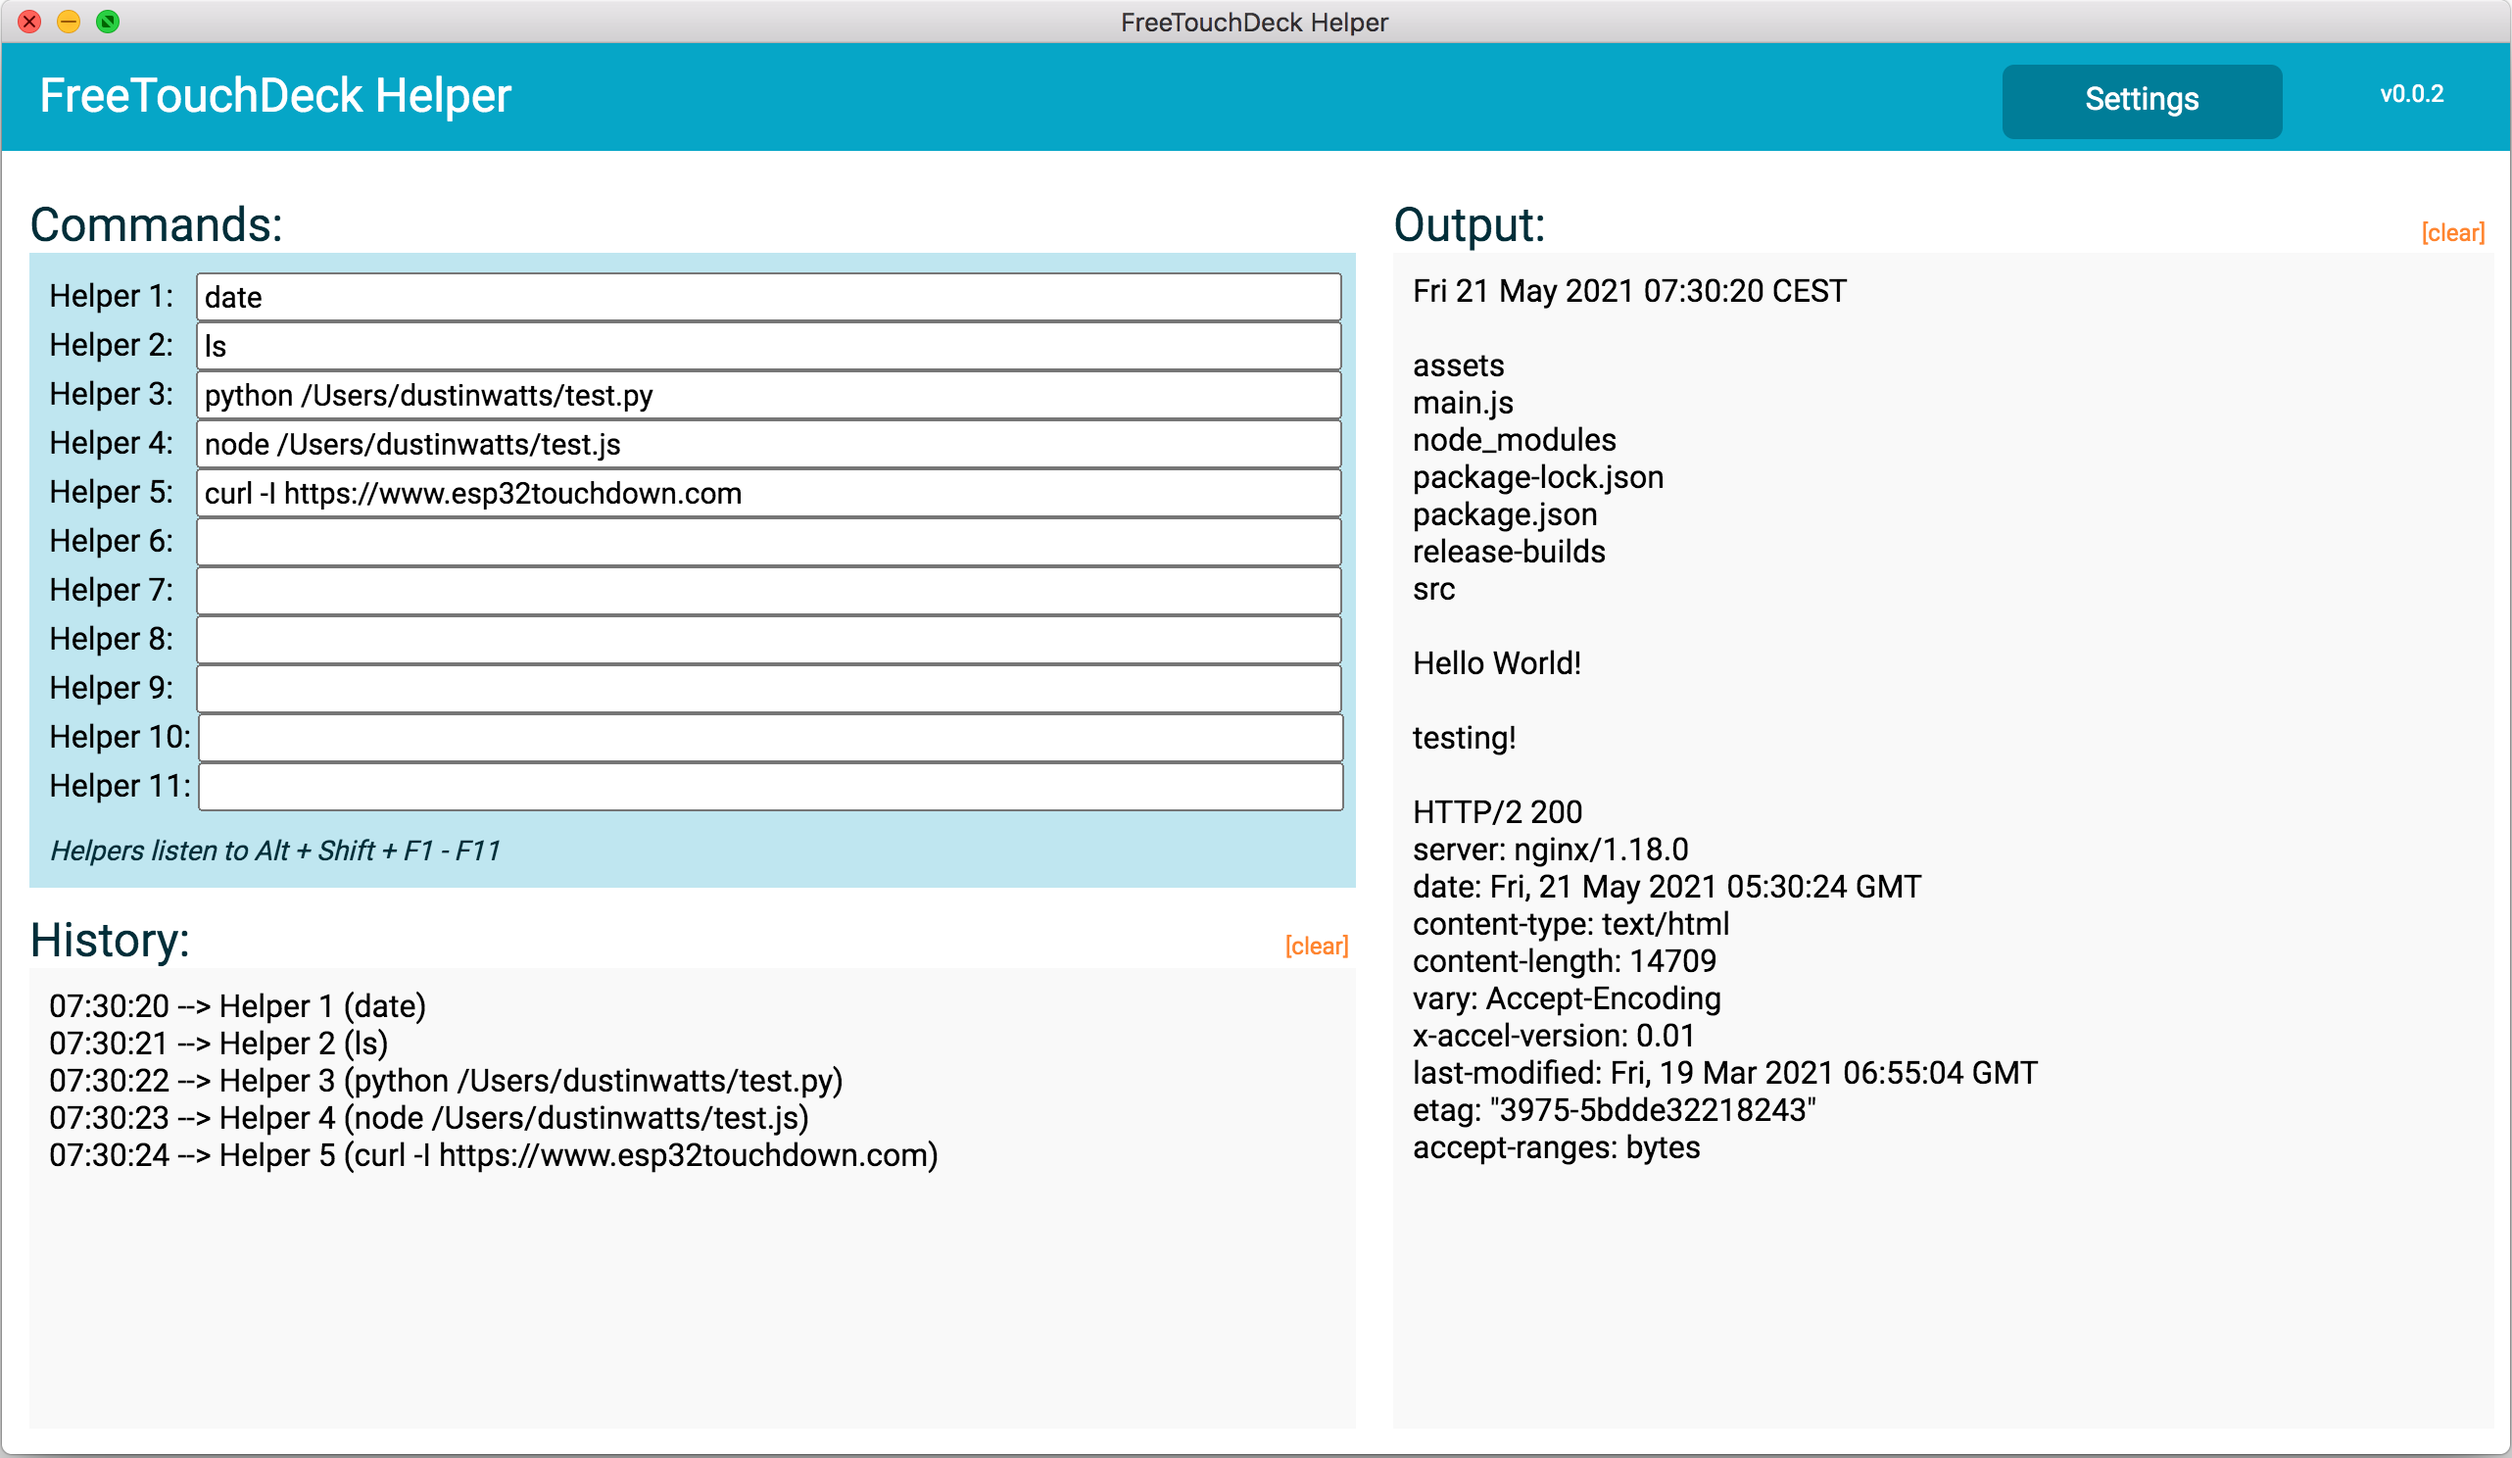
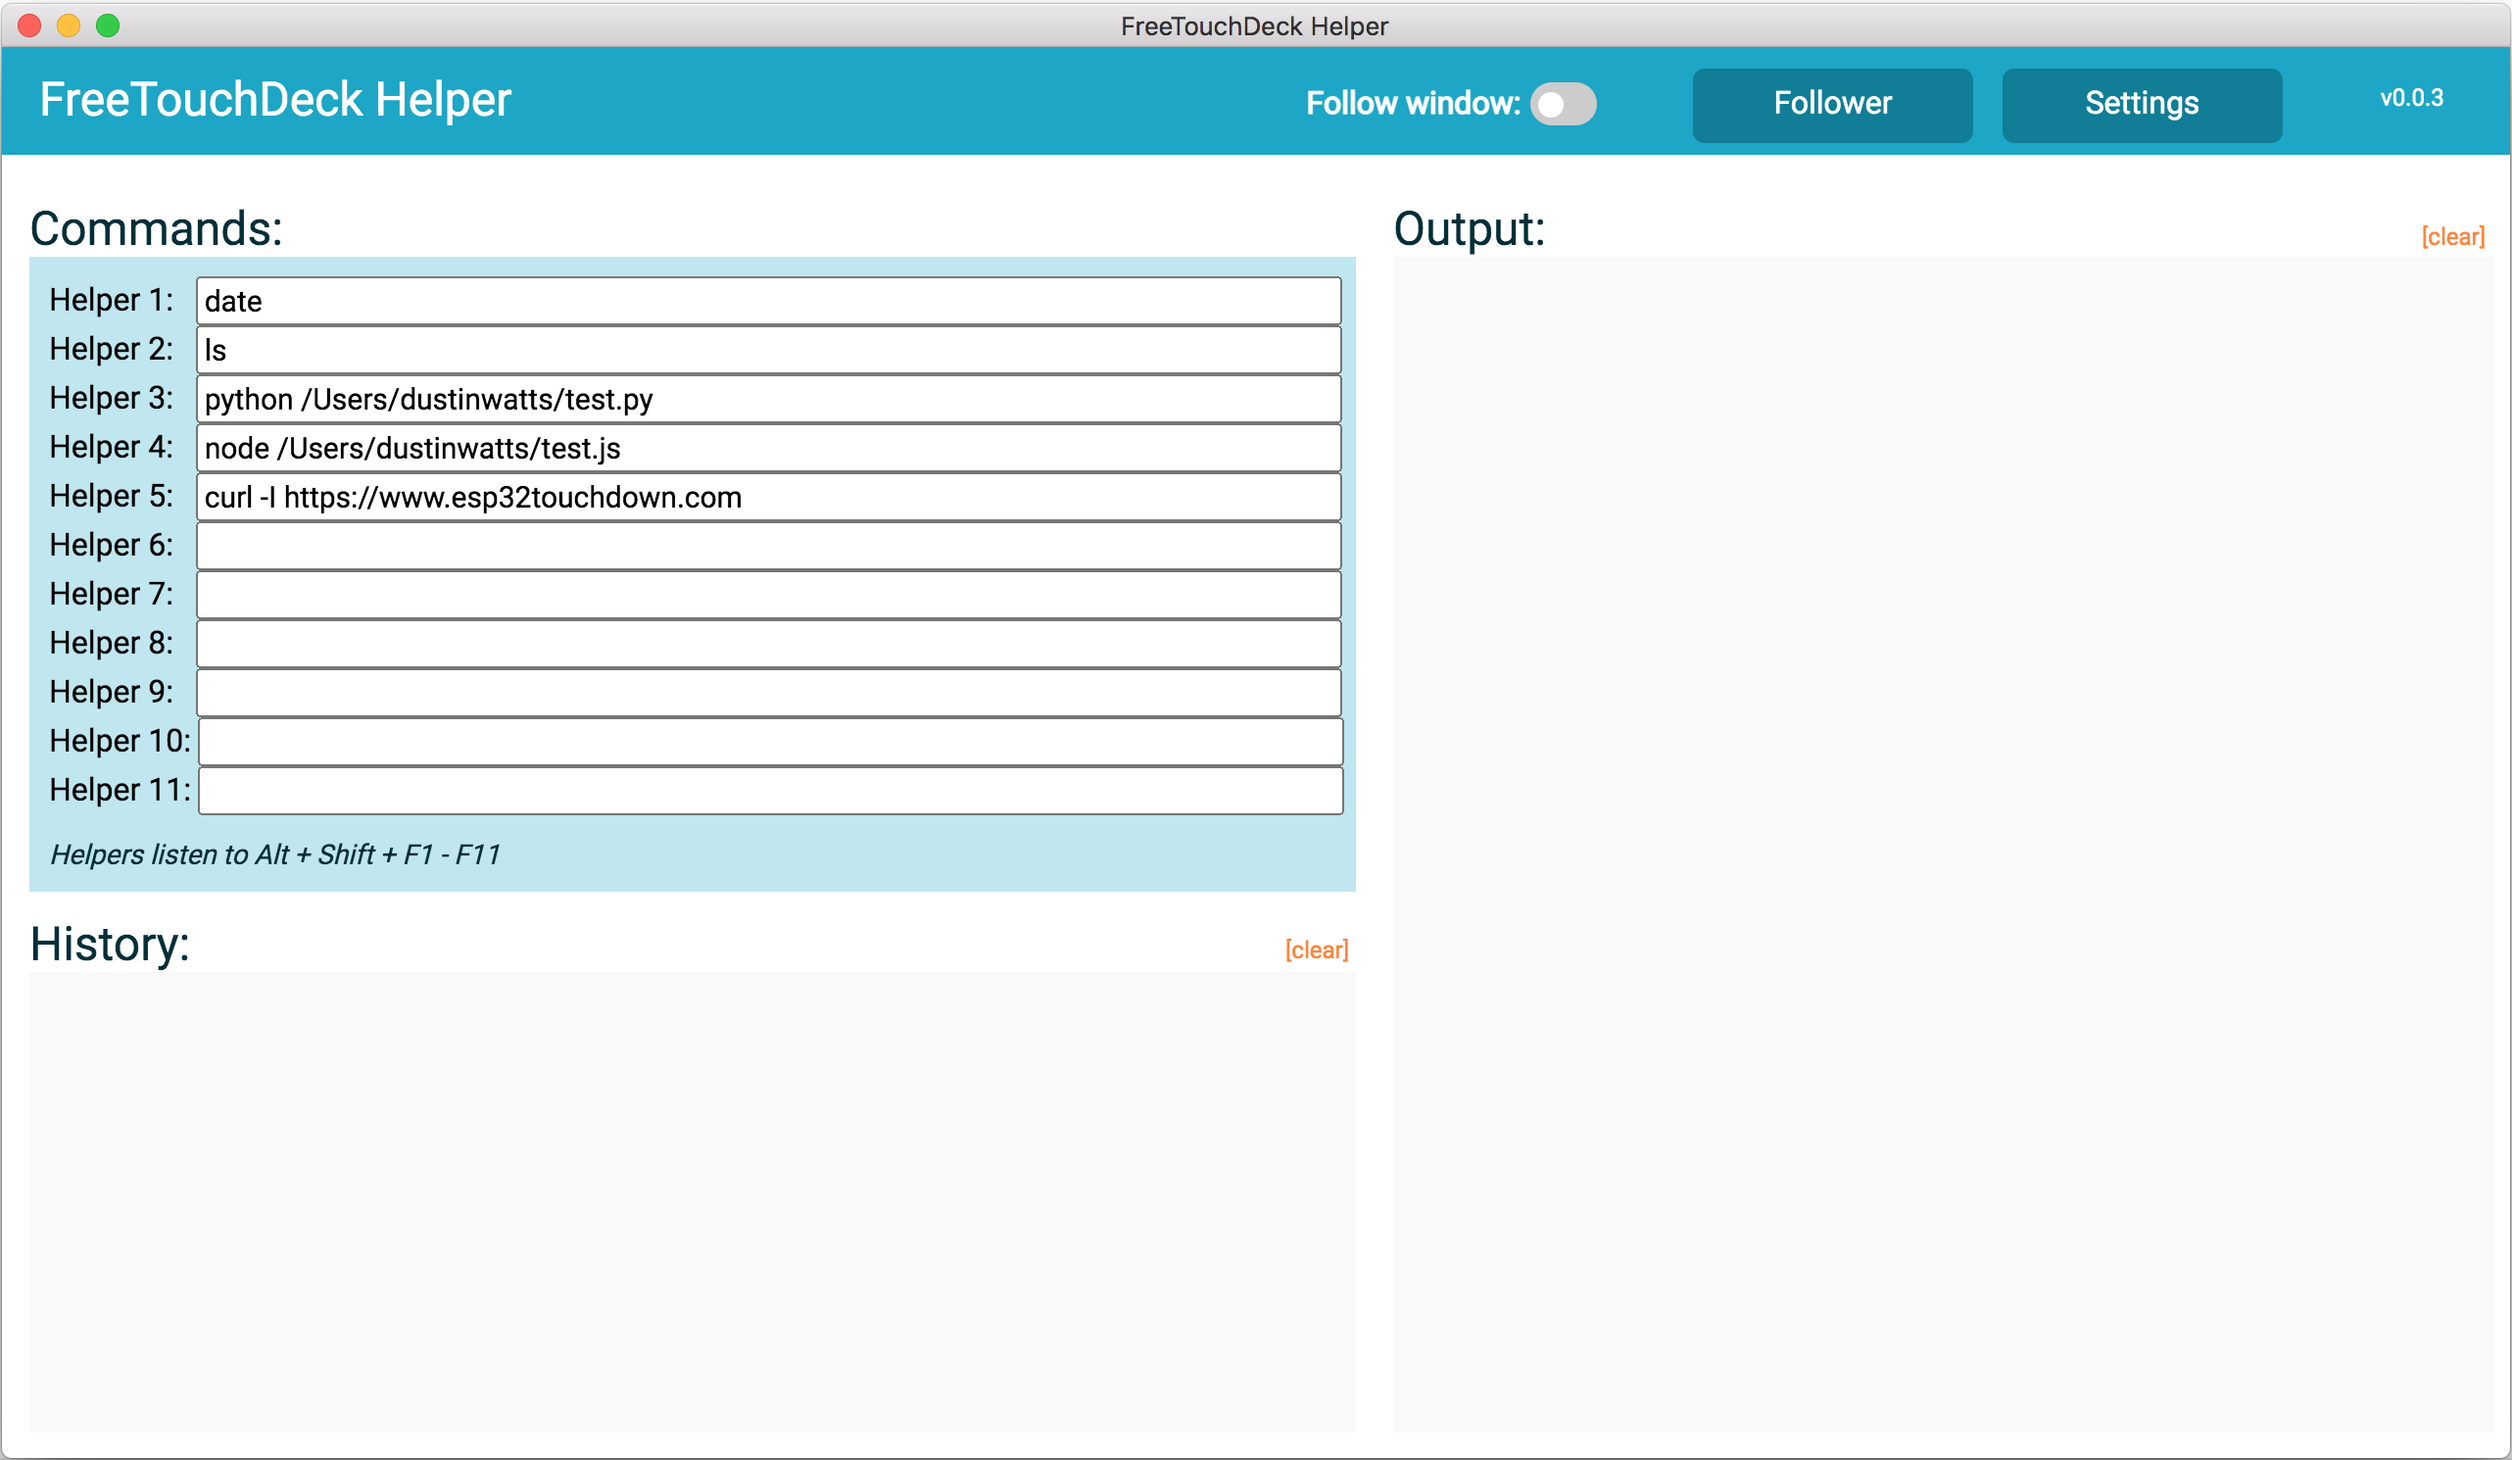
Update README.md
Added info about followers and updated the screenshots.

diff --git a/README.md b/README.md
@@ -1,5 +1,5 @@
 # FreeTouchDeck-Helper
- A simple app (Windows, MacOS, Linux) that gives shell access to your FreeTouchDeck. This app is written in Electron. 
+ A simple app (Windows, MacOS, Linux) that gives shell access to your FreeTouchDeck. This app is written in Electron. It also the Follower. The follower let's you select which FreeTouchDeck menu to open when a certain app comes in to focus.
 
  ![](Images/FreeTouchDeck-Helper.png)
 
@@ -7,15 +7,29 @@
 
 Go to [Releases](https://github.com/DustinWatts/FreeTouchDeck-Helper/releases) and download the build release for your OS. If you would like to build it yourself or modify it in any way, download the source code.
 
-# Dependecies
+# The Follower
+
+If you open the Follower, you will be greeted with the images below.
+
+![](Images/Follower.png)
+
+Here can select Application that when in focus, will auto switch FreeTouchDeck to that menu. To create a follower, you first have to start caputering applications. This will fill the list so you can select them. Click `Start Capture` and open the application you want to be in the list. Once done, you can stop capturing and select which menu will follow which application. Make sure to save! 
+
+*** For the helper to work, FreeTouchDeck has to be connected to USB Serial on your computer. ***
+
+# Build yourself
+
+If you would like to build it yourself or modify it in any way, download the source code.
+
+### Dependencies
 
 To install dependencies use `npm install`. 
 
-# Run
+### Run
 
 To run witout packing, use `npm start`.
 
-# Release Build
+### Release Build
 
 To create a release build, use the following:
 
